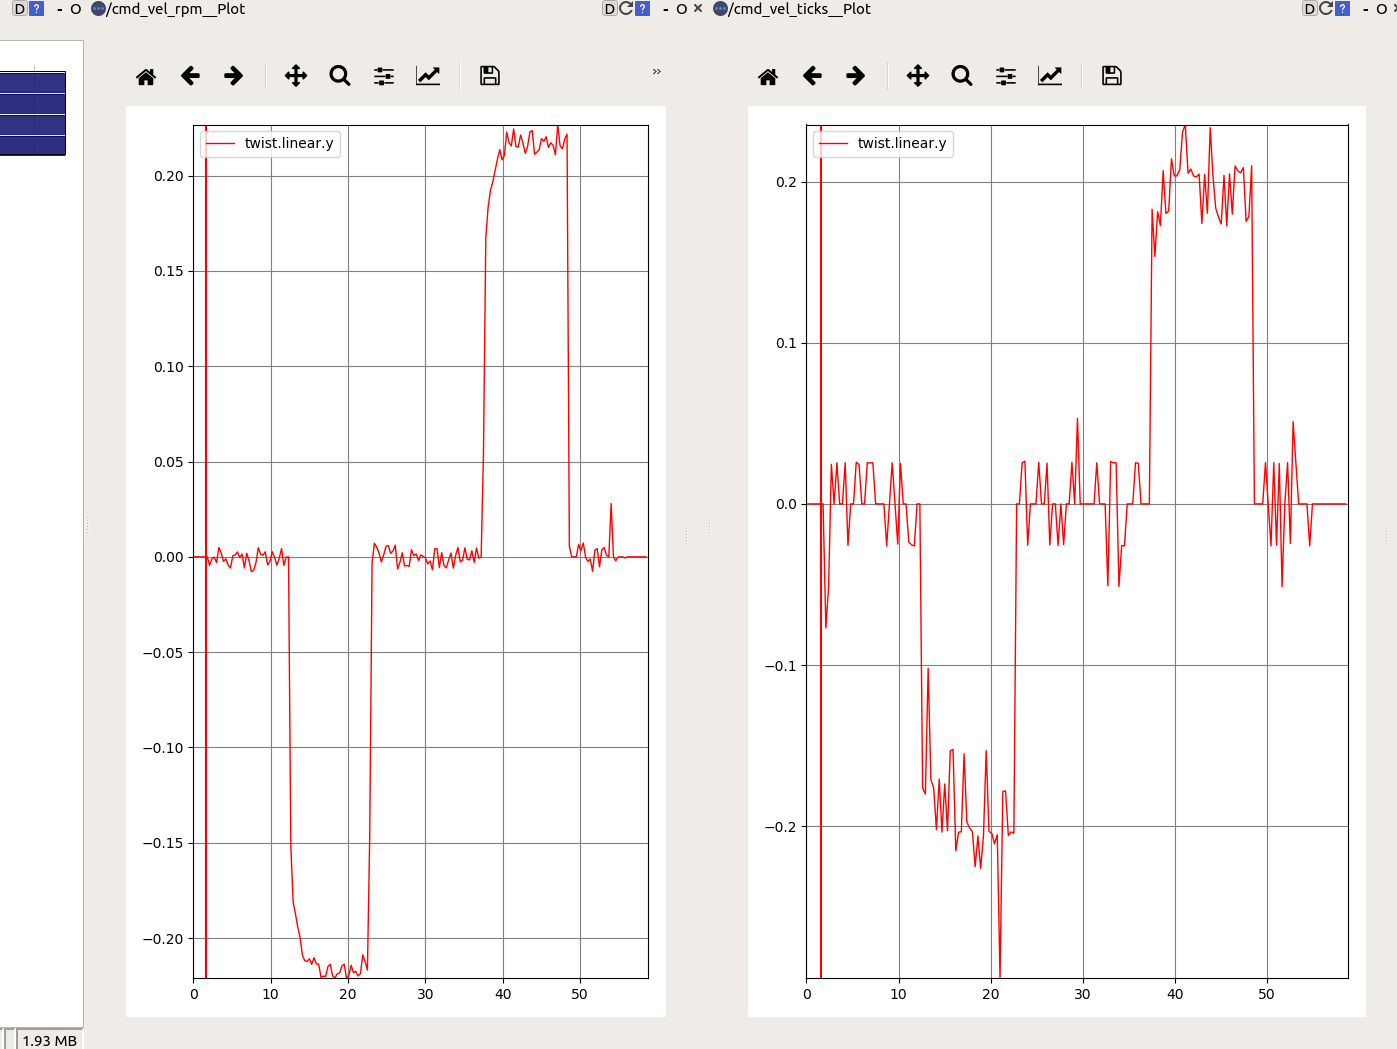
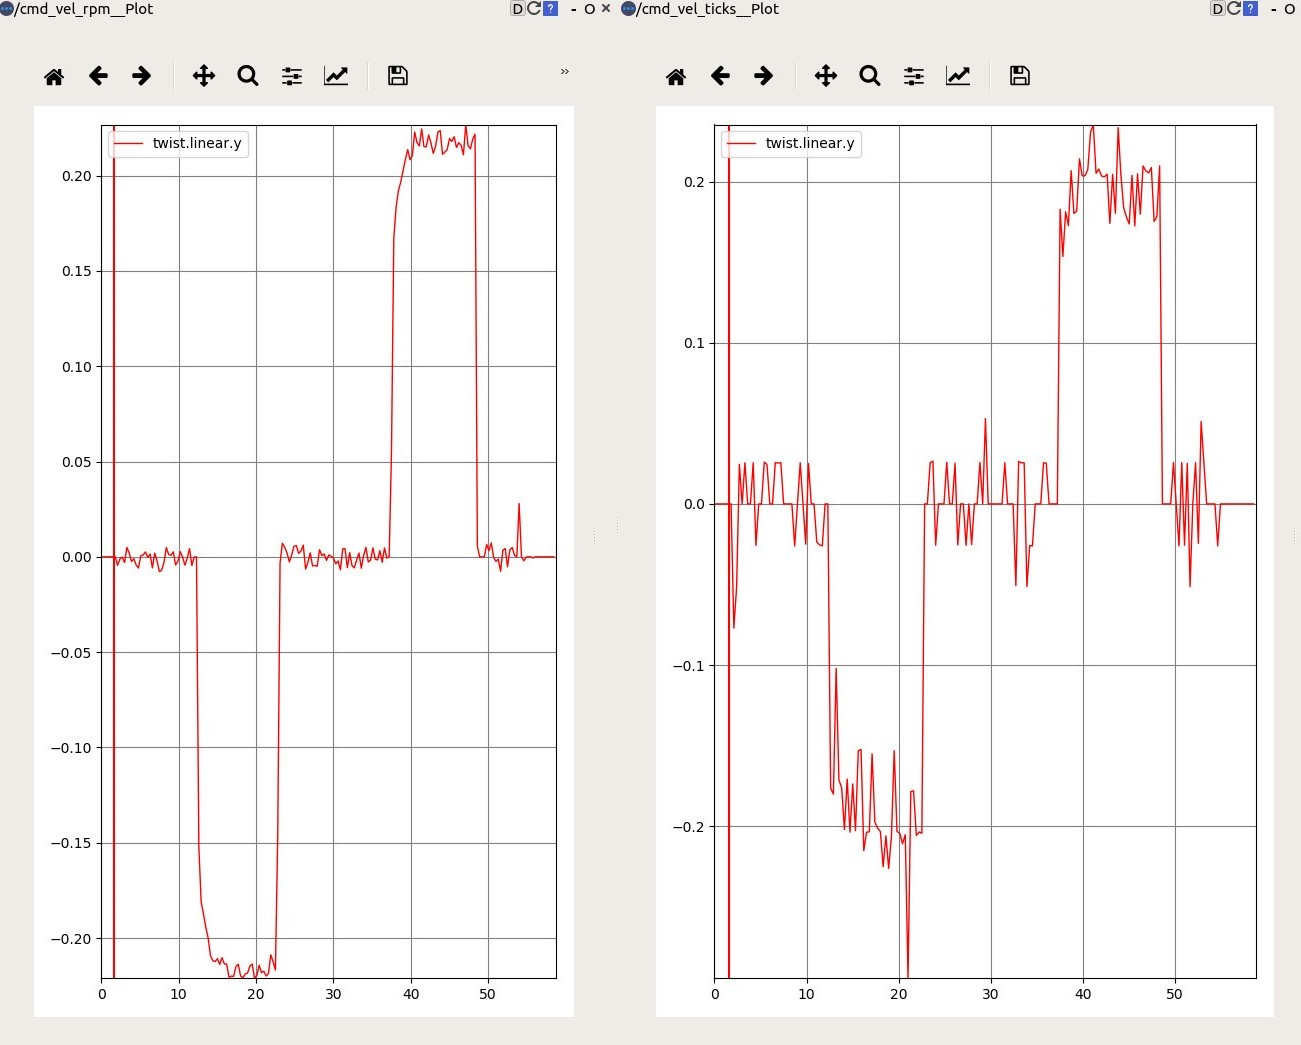
second attempt to resize images

diff --git a/project1/README.md b/project1/README.md
@@ -130,13 +130,13 @@ example on how to use it:
 where new_x is the requested position along the x axis, new_y the one along the y axis and new_theta the orientation measured w.r.t the positive direction of the x axis in radians. 
 
 ## TF
-<img src="img/tf_tree.jpeg" width="200" height="200"/>
+<img src="img/tf_tree.jpeg" width="540" height="338" class="center"/>
 
 ## Parameter Calibration
 Since the provided ticks data from bags have much more noise than RPM data, we decided to split the calibration in two phases, to avoid any possible overfitting
 to the ticks's noise.
 
- ![Velocities noises](img/velocities_noises.png) 
+<img src="img/velocities_noises.png" width="650" height="522" class="center"/>
  _Profile of a linear velocity (Vx) computed from RPM (left) vs the one computed from ticks_
 
 |![Standard performance on bag 2](img/bag2_std.png)|![Standard performance on bag 3](img/bag3_std.png)|
